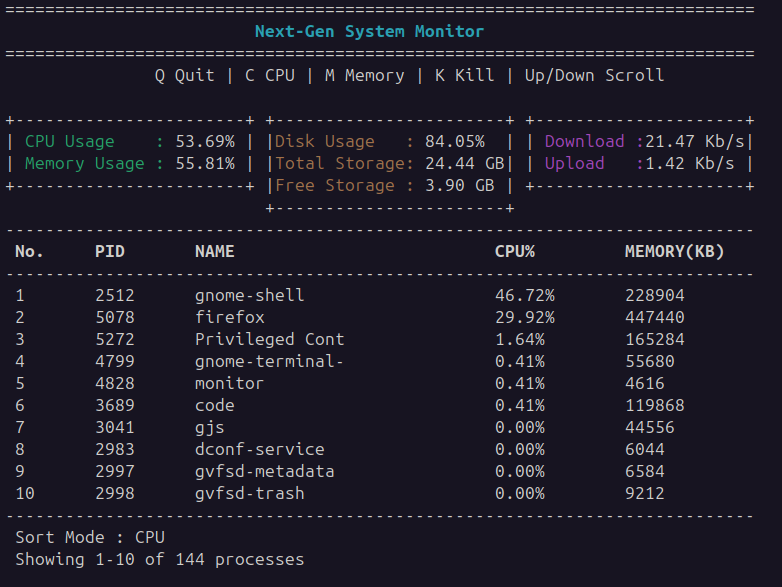
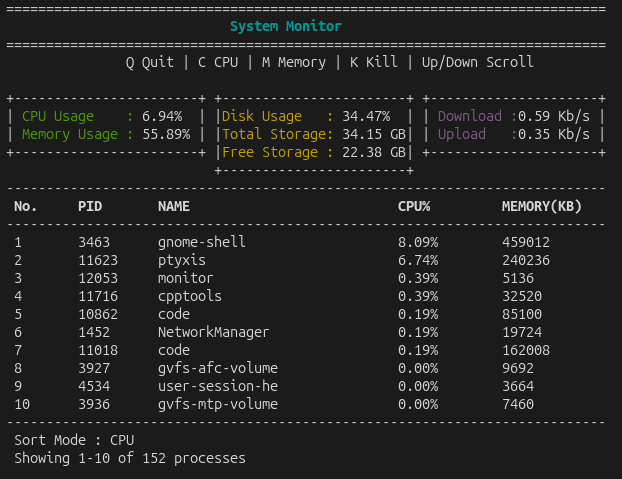
Update readme.md and some code modification

diff --git a/src/renderer.cpp b/src/renderer.cpp
@@ -90,7 +90,7 @@ void renderDashboard(SystemData &data , bool sortByCPU, int startIndex){
     clear();
     mvprintw (0,1,"===========================================================================");
     attron(COLOR_PAIR(1) | A_BOLD);
-    mvprintw (1,25, " Next-Gen System Monitor");
+    mvprintw (1,28, " System Monitor");
     attroff(COLOR_PAIR(1) | A_BOLD);
     mvprintw (2,1,"===========================================================================");
     mvprintw (3, 15," Q Quit | C CPU | M Memory | K Kill | Up/Down Scroll ");

diff --git a/README.md b/README.md
@@ -4,7 +4,7 @@ A multithreaded Linux system monitoring tool built in modern C++ that provides r
 
 ##  Overview
 
-Next-Gen Linux System Monitor is a real-time terminal-based system monitoring application developed in C++ for Linux environments. It is designed to provide users with live insights into system performance while demonstrating core systems programming concepts such as multithreading, process management, file system interaction, and thread synchronization.
+Linux System Monitor is a real-time terminal-based system monitoring application developed in C++ for Linux environments. It is designed to provide users with live insights into system performance while demonstrating core systems programming concepts such as multithreading, process management, file system interaction, and thread synchronization.
 
 The application gathers CPU, memory, disk, network, and process information directly from Linux system interfaces such as `/proc` and `statvfs`. A dedicated background thread continuously collects system statistics, while the main thread renders an interactive ncurses-based dashboard, ensuring a responsive user interface through mutex-protected shared data.
 
@@ -49,7 +49,7 @@ The application gathers CPU, memory, disk, network, and process information dire
 
 The following screenshot shows the interactive terminal dashboard displaying real-time system statistics, process information, and network activity.
 
-![Next-Gen Linux System Monitor Dashboard](screenshots/dashboard.png)
+![Linux System Monitor Dashboard](screenshots/dashboard.png)
 
 ##  Architecture
 
@@ -149,7 +149,7 @@ Clone the repository and build the project using CMake:
 
 ```bash
 git clone https://github.com/saksham-2025/System-Monitor
-cd system-monitor
+cd System-Monitor
 
 mkdir build
 cd build
